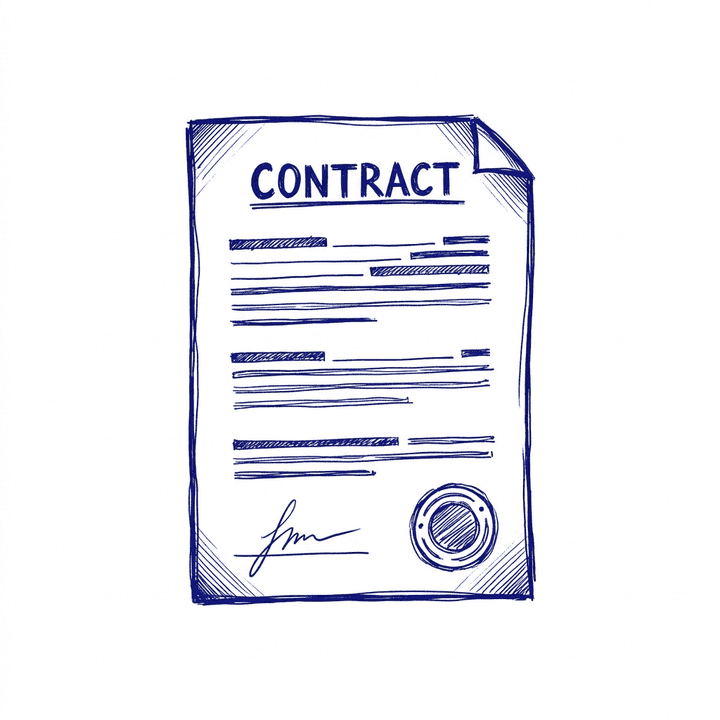
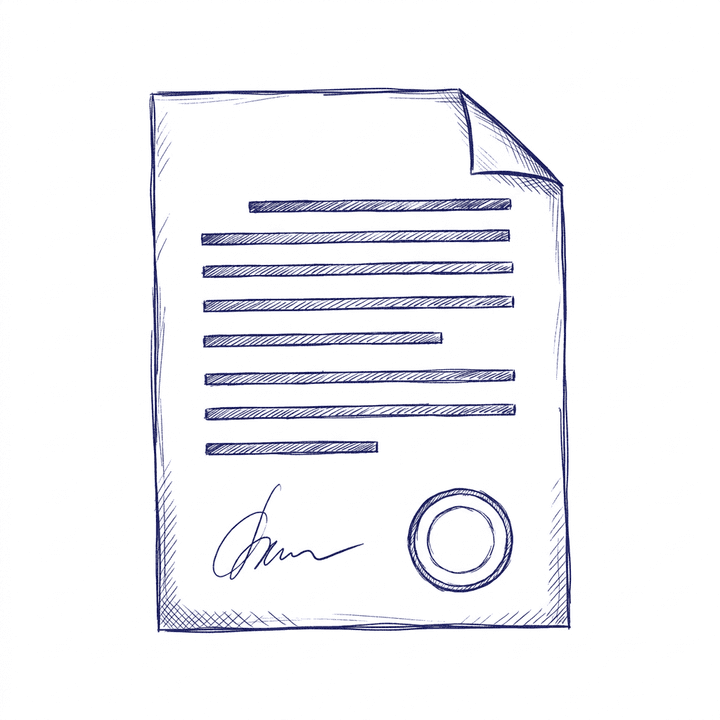
@ 카드 지면 채우기 · 출처 겹침 · 그림 속 글자
어제 고친 것들을 실제 화면에서 검증하다 남아 있던 세 가지를 잡았다.

1) 그림에 영문이 찍혀 있었다
   pen/contract.png에 "CONTRACT"가 크게 들어가 있었다. 프롬프트에 이미
   "글자 금지"가 있었지만 "계약서"라는 말 자체가 글자를 부른다. 서류·간판
   처럼 원래 글자가 있는 물건은 글자 자리에 직선만 긋도록 지시를 바꿨다.
   lorem ipsum 같은 흉내 글씨도 명시적으로 막았다(1차 재생성 때 나왔다).

2) 표만 있는 장은 아래 절반이 비었다
   statGrid·timeline만 있고 장점 목록이 없는 장이 그랬다. 정보 상자가
   남는 높이를 먹고 줄을 고르게 벌리게 했다 — 테두리가 늘어나는 SVG라
   상자만 키워도 손그림 모양이 유지된다. 메모 하나뿐인 장은 구석의 작은
   쪽지 대신 넓게 편다. 신문은 컷 상한을 기사 길이에 따라 175까지 올렸다
   (본문이 다섯 줄 넘는 장은 118 그대로 — 그림이 지면을 먹지 않게).

3) 출처 문구가 장점 목록과 맞붙었다
   내용이 많은 단지 카드에서 글이 아래로 넘쳐 출처를 덮었다. 출처를 흐름
   에서 빼 바닥에 고정하고 그 자리를 미리 비워뒀다.

   근본 원인은 따로 있었다. 줄 수만 세는 어림 배수로는 "광교중앙역 도보
   10분"처럼 한 줄이 두 줄로 접히는 경우를 못 잡는다. 본문 높이를 실제로
   재서 넘치는 만큼만 통째로 줄이도록 바꿨다.

   재고 나서 스타일을 되돌리는 게 중요하다 — 안 되돌리면 setFit이 같은
   값을 내 다시 그리지 않고, 재느라 넣은 height:auto가 DOM에 남아 상자가
   남는 높이를 못 먹는다(한 번 밟았다).

검증: 8/9 아침 크론이 실제로 만든 카드 + 재현 케이스 8종을 노트·신문
양쪽으로 렌더링해 눈으로 확인. 블로그 전환도 카드 6장 → 슬롯 6칸,
이미지 6개 전달까지 확인.

@
@

Changed region(s): [[0.1833, 0.1222, 0.7944, 0.8861]]

diff --git a/src/components/cardnews/HybridRenderer.tsx b/src/components/cardnews/HybridRenderer.tsx
@@ -196,7 +196,18 @@ export function HybridRenderer({
   // 없는 내용을 지어낼 수는 없으니, 있는 글을 크게 써서 채우는 쪽이 맞다.
   // 배수는 세 단계뿐이다 — 카드마다 크기가 제각각이면 넘길 때 어수선하다.
   const bodyCount = rows.length + points.length + (sub ? 1 : 0);
-  const z = bodyCount <= 3 ? 1.18 : bodyCount <= 5 ? 1.08 : 1;
+  // 8줄이 넘으면 반대로 줄여야 한다 — 표와 장점이 둘 다 긴 단지 카드는
+  // 기본 크기로는 글이 아래로 넘쳐 출처 문구가 그림 위로 밀려났다.
+  const z = bodyCount <= 2 ? 1.3 : bodyCount <= 3 ? 1.18 : bodyCount <= 5 ? 1.08
+          : bodyCount <= 7 ? 1 : bodyCount <= 9 ? 0.93 : 0.87;
+
+  // 표만 있고 장점 목록이 없는 장(statGrid·timeline이 그렇다)은 글씨를 키워도
+  // 아래 절반이 텅 빈다. 이럴 때는 정보 상자가 남는 높이를 먹고 줄 간격을
+  // 벌리게 한다 — 테두리가 늘어나는 SVG라 상자만 키워도 모양이 유지된다.
+  const growBox = rows.length > 0 && points.length === 0;
+
+  // 메모 하나뿐인 장은 오른쪽 구석의 작은 쪽지로는 지면이 안 찬다. 넓게 편다.
+  const onlySub = rows.length === 0 && points.length === 0 && Boolean(sub);
 
   // 제목은 단지명 길이가 제각각이라 고정 크기로는 잘리거나 남는다.
   // 두 줄 안에 들어갈 때까지 줄인다.
@@ -218,6 +229,37 @@ export function HybridRenderer({
     }
     setTitleSize(size);
   }, [headline, scale, z]); // eslint-disable-line react-hooks/exhaustive-deps
+
+  // 줄 수만 세는 어림 배수(z)로는 넘침을 못 막는다 — '광교중앙역 도보 10분'처럼
+  // 한 줄이 두 줄로 접히면 같은 줄 수라도 높이가 달라진다. 실제 높이를 재서
+  // 넘치는 만큼만 통째로 줄인다.
+  //
+  // 무한루프가 안 나는 이유: 이 훅은 blocks/scale이 바뀔 때만 돈다. setFit으로
+  // 다시 그려져도 훅이 재실행되지 않으므로 측정 → 반영에서 멈춘다.
+  const bodyRef = useRef<HTMLDivElement>(null);
+  const [fit, setFit] = useState(1);
+  const bodyKey = JSON.stringify([rows, points, sub, headline, bandText, source]);
+  useLayoutEffect(() => {
+    const el = bodyRef.current;
+    const parent = el?.parentElement;
+    if (!el || !parent) return;
+    // 이전 배율을 걷어내고 자연 높이를 잰다.
+    // 재던 값을 반드시 되돌려 놓아야 한다 — 배율이 그대로면 setFit이 같은 값을
+    // 내놓아 다시 그리지 않고, 재느라 넣은 height:auto가 DOM에 남아
+    // 상자가 남는 높이를 못 먹는다.
+    const keep = { t: el.style.transform, w: el.style.width, h: el.style.height };
+    el.style.transform = 'none';
+    el.style.width = '100%';
+    el.style.height = 'auto';
+    // clientHeight는 padding을 포함하지만 height:100%는 content 높이 기준이다.
+    // 이 차이를 빼지 않으면 출처 자리만큼 넘침을 놓쳐 글이 그 위로 내려앉는다.
+    const avail = parent.clientHeight - (source ? s(15) : 0);
+    const need = el.scrollHeight;
+    el.style.transform = keep.t;
+    el.style.width = keep.w;
+    el.style.height = keep.h;
+    setFit(need > avail && avail > 0 ? Math.max(0.7, avail / need) : 1);
+  }, [bodyKey, scale, z, titleSize]); // eslint-disable-line react-hooks/exhaustive-deps
 
   return (
     <div
@@ -241,10 +283,24 @@ export function HybridRenderer({
           top: s(13),
           // 아래쪽은 고정된 그림 자리로 비워둔다
           bottom: s(SKETCH_BAND),
-          display: 'flex',
-          flexDirection: 'column',
+          // 출처 문구 자리를 미리 떼어 둔다. 이게 없으면 내용이 많은 장에서
+          // 장점 목록이 바닥까지 내려와 출처와 맞붙는다.
+          paddingBottom: source ? s(15) : 0,
         }}
       >
+        {/* 넘칠 때만 통째로 줄이는 자리. 줄이는 만큼 폭·높이를 키워 두어야
+            축소 후의 겉보기 크기가 원래 칸에 딱 맞는다. */}
+        <div
+          ref={bodyRef}
+          style={{
+            display: 'flex',
+            flexDirection: 'column',
+            width: `${100 / fit}%`,
+            height: `${100 / fit}%`,
+            transform: `scale(${fit})`,
+            transformOrigin: 'top left',
+          }}
+        >
         {/* 번호 동그라미 + 동네명 + 별.
             예전에는 남색 띠였는데, 참고한 노트 카드들은 손으로 그린 동그라미에
             번호를 넣고 동네명에 형광펜을 긋는다. 띠보다 노트에 가깝다. */}
@@ -306,7 +362,19 @@ export function HybridRenderer({
 
         {/* 정보 상자 — 자로 잰 사각형이 아니라 손으로 그린 듯 흔들리는 테두리 */}
         {rows.length > 0 && (
-          <div style={{ position: 'relative', flexShrink: 0, marginTop: s(7), padding: `${s(6)}px ${s(13)}px ${s(5)}px` }}>
+          <div
+            style={{
+              position: 'relative',
+              flex: growBox ? '1 1 0' : '0 0 auto',
+              minHeight: 0,
+              marginTop: s(7),
+              padding: `${s(6)}px ${s(13)}px ${s(5)}px`,
+              // 상자가 커진 만큼 줄을 고르게 벌린다 (평소에는 붙여 쓴다)
+              display: growBox ? 'flex' : undefined,
+              flexDirection: growBox ? 'column' : undefined,
+              justifyContent: growBox ? 'space-evenly' : undefined,
+            }}
+          >
             <svg
               viewBox="0 0 690 250"
               preserveAspectRatio="none"
@@ -373,7 +441,7 @@ export function HybridRenderer({
         {/* 남는 높이를 위아래로 나눠 본문을 가운데 아래쪽으로 내린다.
             내용이 적은 장에서 위쪽만 빽빽하고 아래가 텅 비어 보이던 것을 없앤다.
             빽빽한 장에서는 남는 공간이 0이라 아무 일도 일어나지 않는다. */}
-        <div style={{ flex: '1 1 0', minHeight: 0 }} />
+        {!growBox && <div style={{ flex: '1 1 0', minHeight: 0 }} />}
 
         {/* 장점 + 메모를 좌우로 — 항목이 늘어도 메모와 겹치지 않는다 */}
         <div style={{ display: 'flex', gap: s(10), marginTop: s(11), alignItems: 'flex-start' }}>
@@ -417,8 +485,8 @@ export function HybridRenderer({
             <div
               style={{
                 position: 'relative',
-                flex: `0 0 ${s(133)}px`,
-                padding: `${s(13)}px ${s(10)}px ${s(12)}px`,
+                flex: onlySub ? '1 1 auto' : `0 0 ${s(133)}px`,
+                padding: onlySub ? `${s(18)}px ${s(20)}px ${s(20)}px` : `${s(13)}px ${s(10)}px ${s(12)}px`,
                 background: 'linear-gradient(165deg, #fff4a3, #ffec78)',
                 transform: 'rotate(1.6deg)',
                 boxShadow: `${s(2)}px ${s(3.5)}px ${s(8)}px rgba(0,0,0,.22)`,
@@ -444,11 +512,12 @@ export function HybridRenderer({
                   네 줄에서 끊는다 */}
               <div
                 style={{
-                  fontSize: s(13.5),
+                  fontSize: onlySub ? s(21) : s(13.5),
                   lineHeight: 1.42,
                   textAlign: 'center',
                   wordBreak: 'keep-all',
-                  maxHeight: s(13.5) * 1.42 * 4 + s(4),
+                  // 넓게 편 메모는 줄 수를 제한하지 않는다 — 태그와 겹칠 자리가 없다
+                  maxHeight: onlySub ? undefined : s(13.5) * 1.42 * 4 + s(4),
                   overflow: 'hidden',
                 }}
               >
@@ -458,10 +527,23 @@ export function HybridRenderer({
           )}
         </div>
 
-        <div style={{ flex: '1.3 1 0', minHeight: 0 }} />
+        {!growBox && <div style={{ flex: '1.3 1 0', minHeight: 0 }} />}
 
+        </div>
+
+        {/* 흐름에서 빼서 바닥에 고정한다 — 위 내용이 길어져도 밀리지 않는다 */}
         {source && (
-          <div style={{ fontSize: s(10), color: '#8A8A7A', flexShrink: 0 }}>{source}</div>
+          <div
+            style={{
+              position: 'absolute',
+              left: 0,
+              bottom: 0,
+              fontSize: s(10),
+              color: '#8A8A7A',
+            }}
+          >
+            {source}
+          </div>
         )}
       </div>
 

diff --git a/src/components/cardnews/NewspaperRenderer.tsx b/src/components/cardnews/NewspaperRenderer.tsx
@@ -318,8 +318,11 @@ export function NewspaperRenderer({
           minHeight: 0,
           // 남는 공간을 전부 주면 안 된다. 항목이 하나뿐인 장에서 그림이
           // 지면 절반을 차지해 "신문"이 아니라 그림책이 됐다.
-          // 신문 컷은 기사가 짧아도 작게 들어간다.
-          maxHeight: s(sparse ? 190 : 118),
+          //
+          // 그렇다고 늘 작게 두면 표만 있는 장(statGrid·timeline)은 컷 아래가
+          // 통째로 빈다. 기사가 짧을수록 컷을 키우되 상한은 지면의 40% 선.
+          // 본문이 다섯 줄 넘게 있는 장은 예전 크기 그대로 둔다.
+          maxHeight: s(sparse ? 210 : bodyCount <= 4 ? 175 : 118),
           marginTop: s(9),
           display: 'flex',
           flexDirection: 'column',
